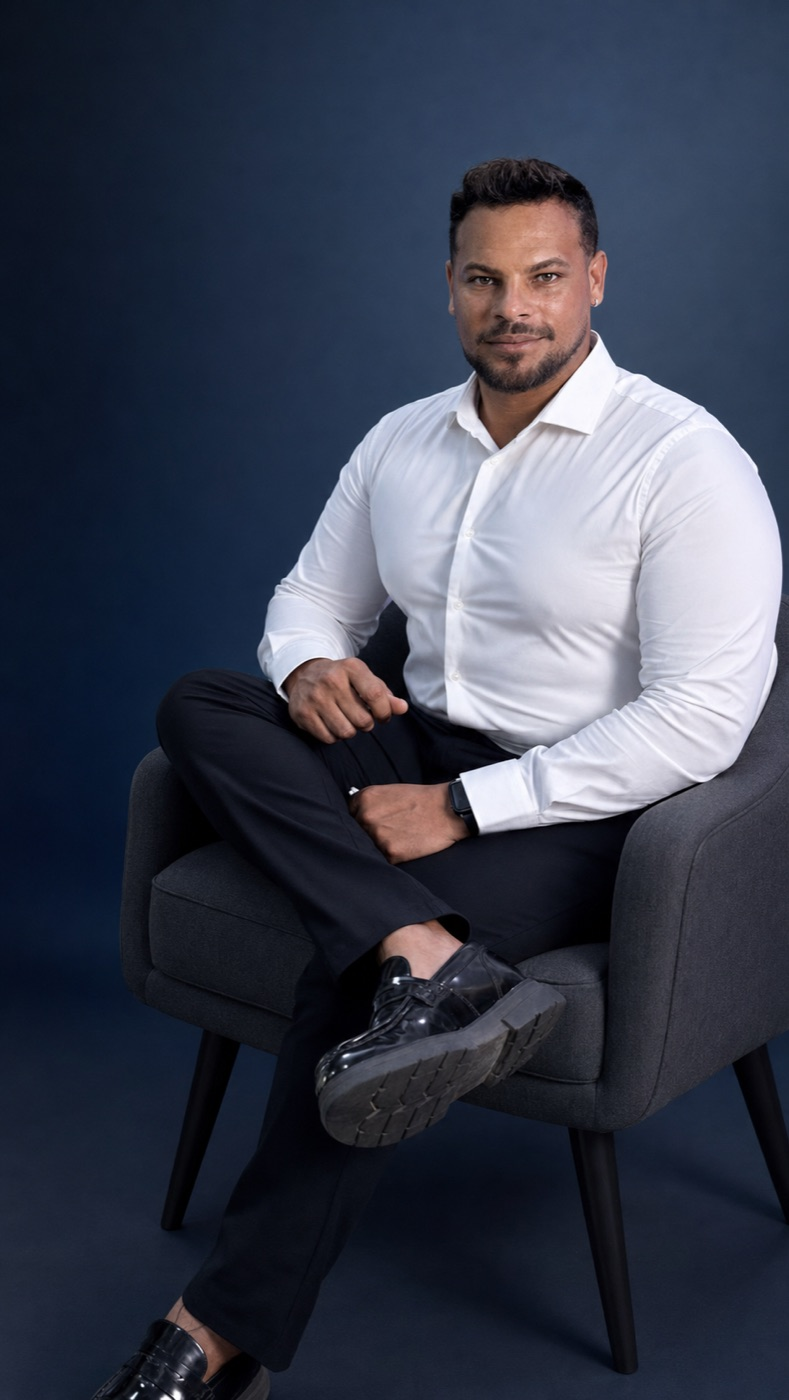
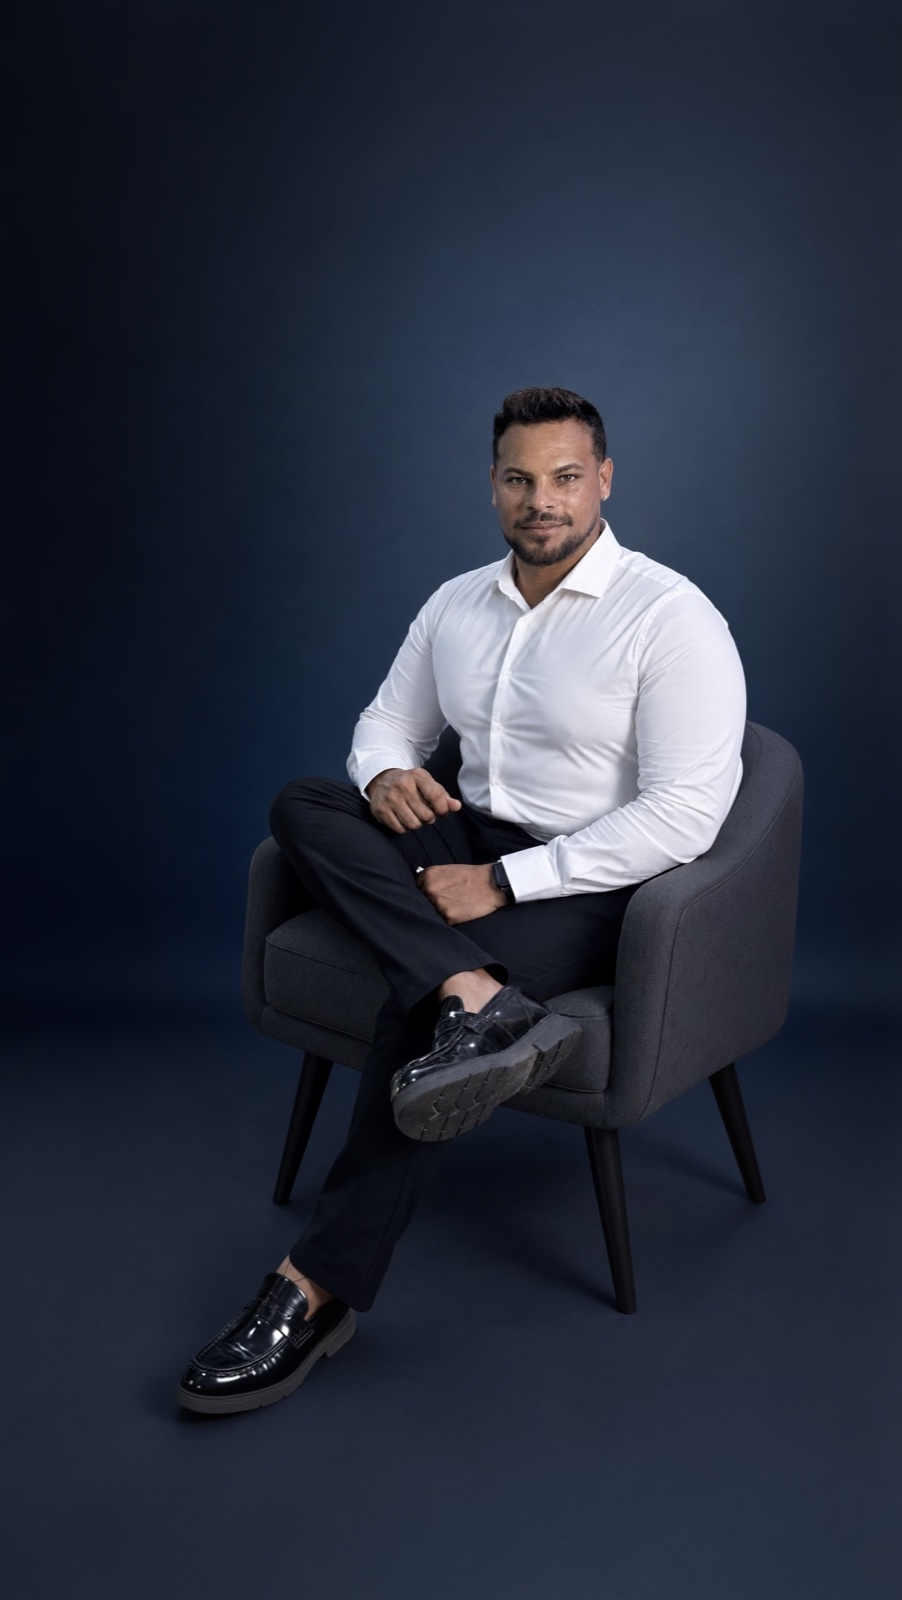
Substitui foto do fundador pela versão final

diff --git a/index.html b/index.html
@@ -129,8 +129,8 @@
               <img
                 src="assets/fundador-jonathas.jpg"
                 alt="Retrato profissional de Jonathas da Silva Barbosa, fundador da JSB Smart Services"
-                width="789"
-                height="1400"
+                width="902"
+                height="1600"
                 loading="lazy"
                 decoding="async"
               />

diff --git a/branding.css b/branding.css
@@ -64,7 +64,7 @@
 
 .founder-photo {
   width: 100%;
-  aspect-ratio: 789 / 1400;
+  aspect-ratio: 902 / 1600;
   max-height: 700px;
   overflow: hidden;
   background: var(--brand-navy);
